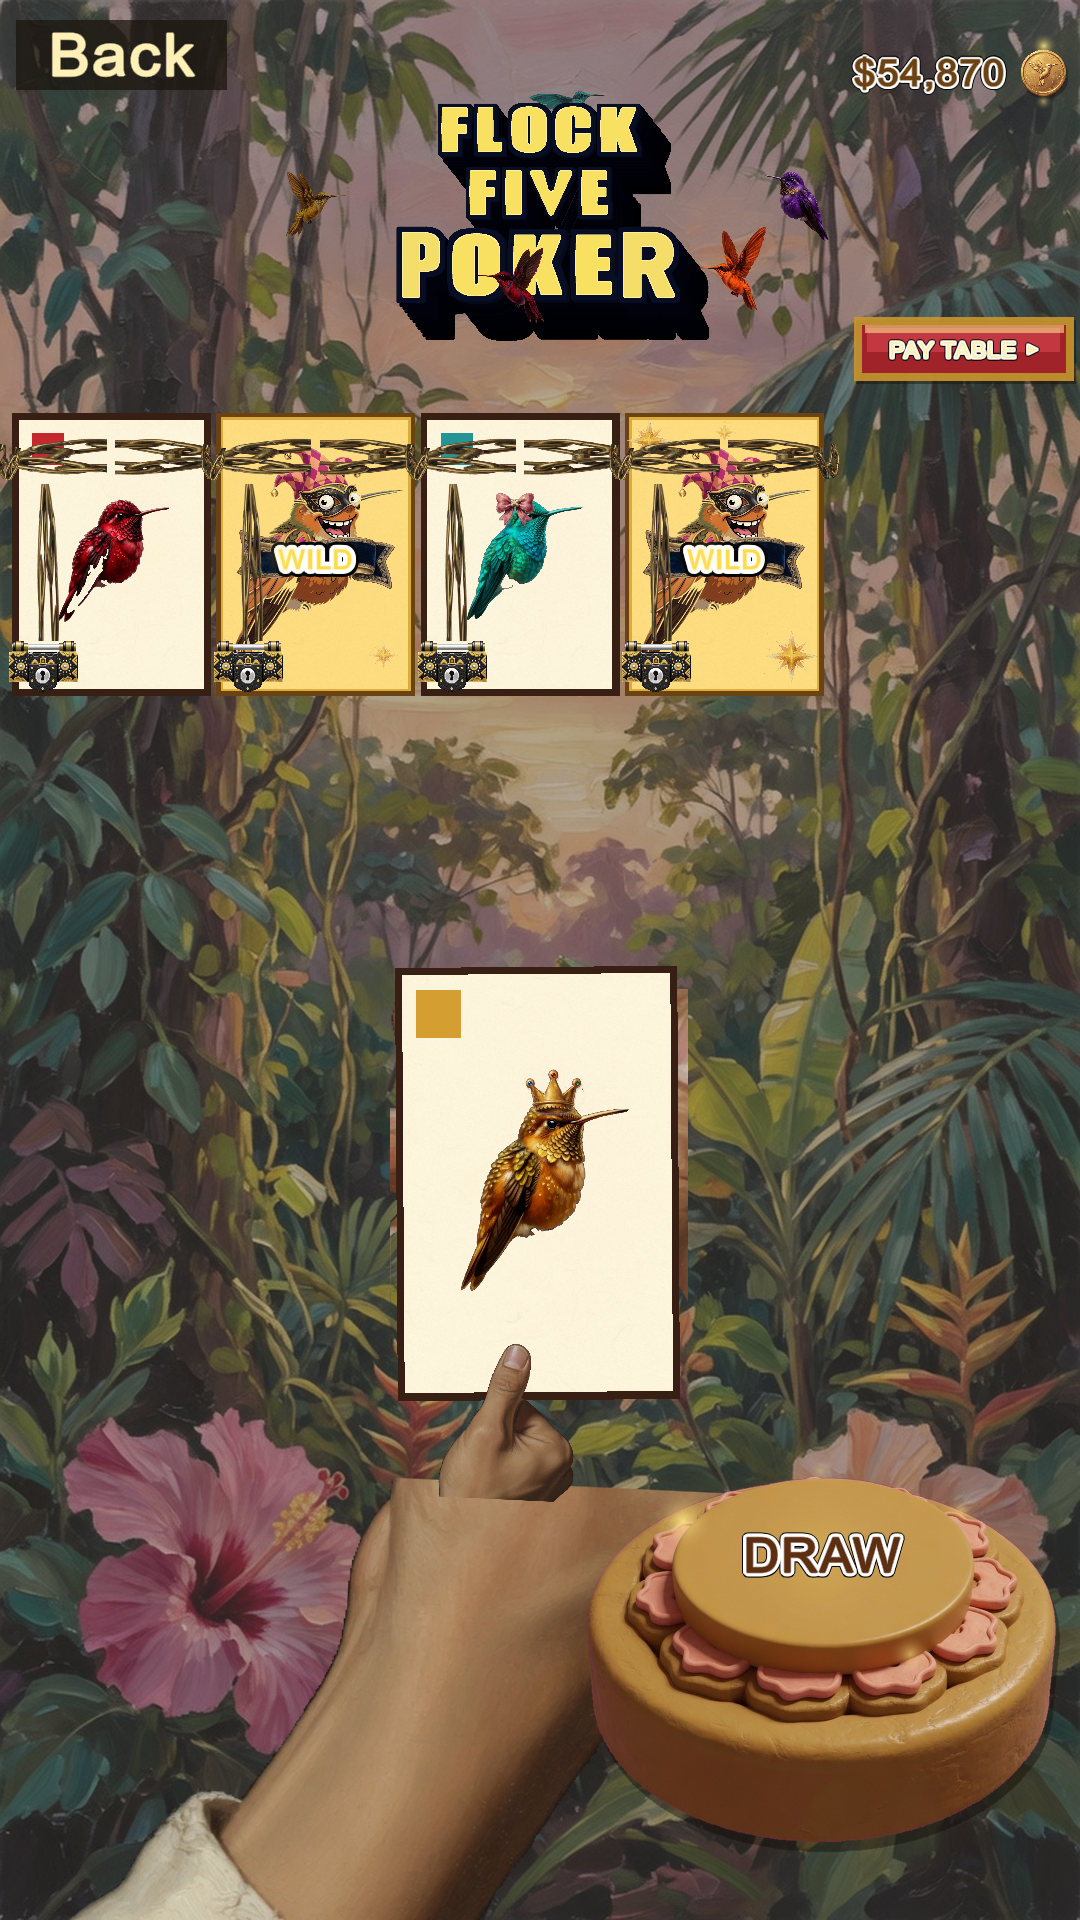
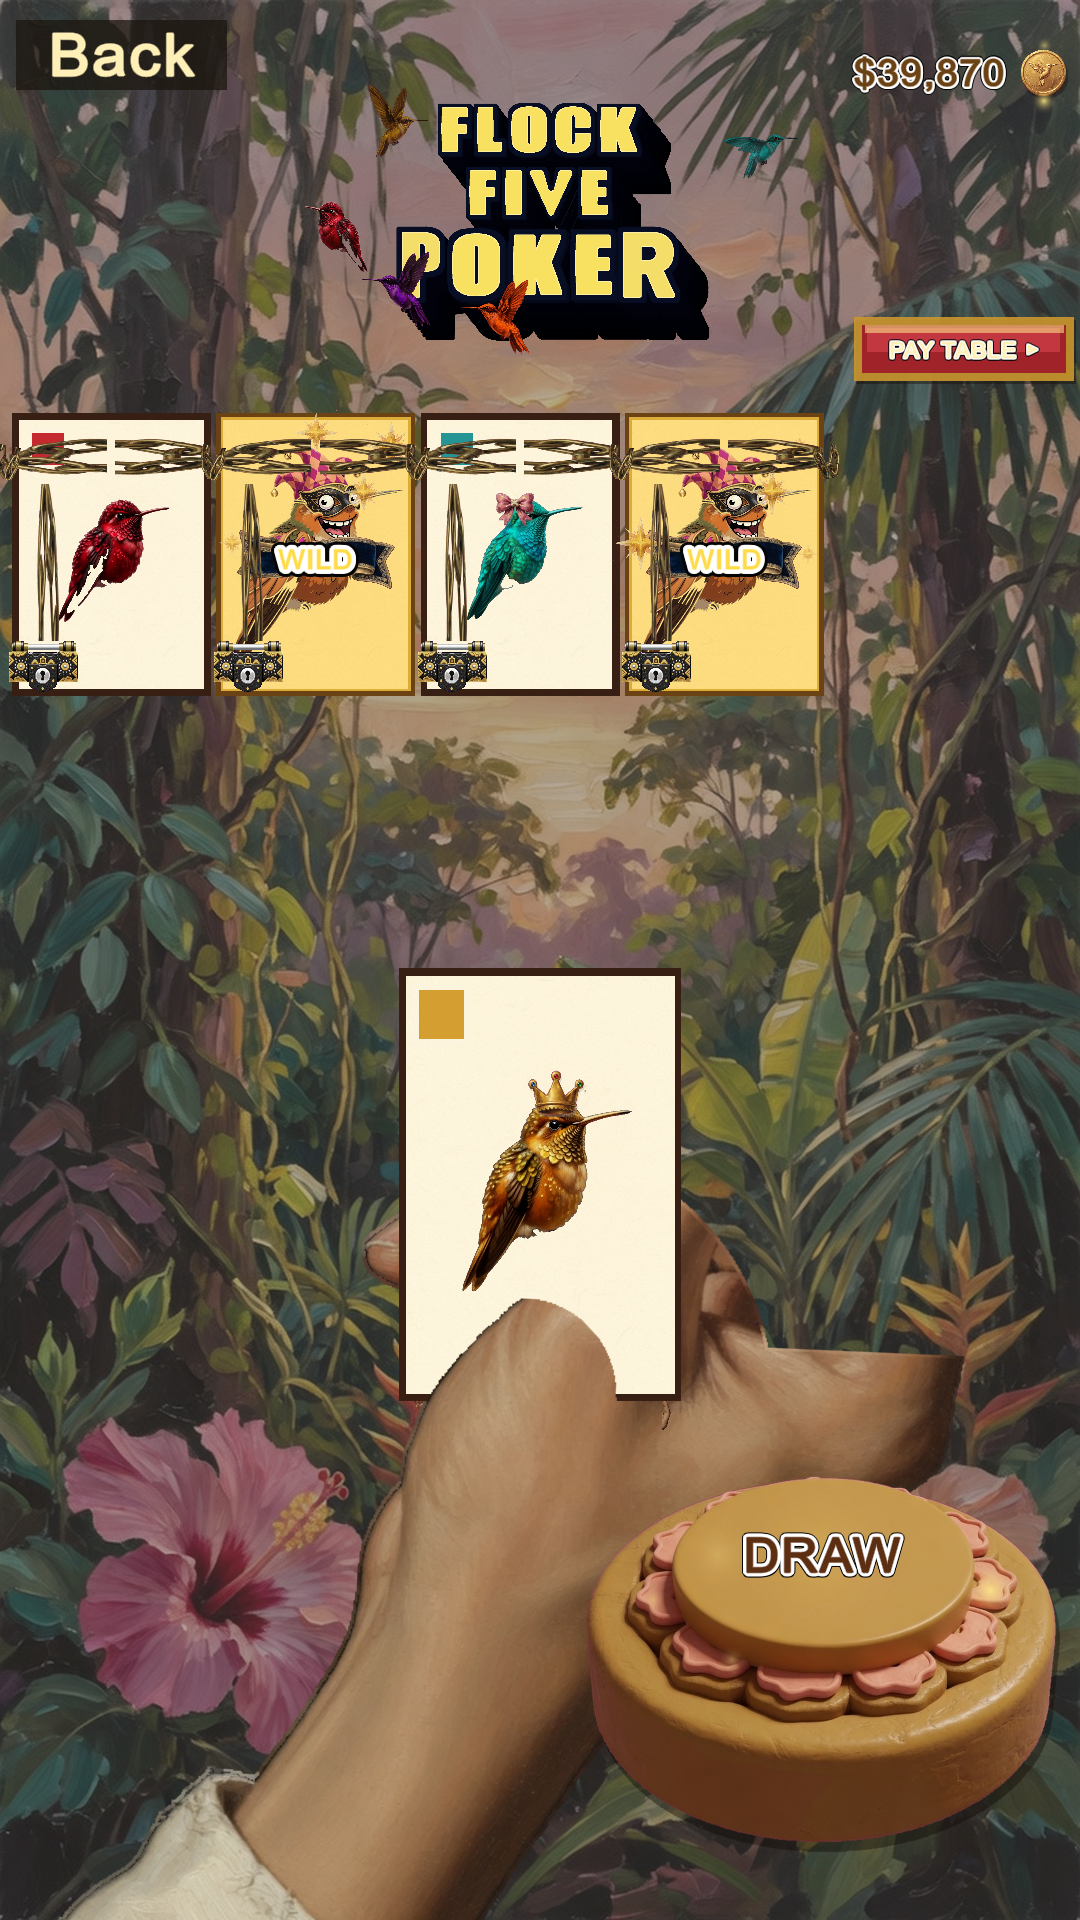
Poker: pass 12 — fill constructed grip under the cards
Palm is a solid mass (no card-shaped cutout). Behind digits
(pinky/ring/middle/index) re-anchor as pads under the remaining
fan. Thumb draws at the same dest as the palm so the pad sits in
the grip, not as a floating sticker. Draw order unchanged:
palm → behind digits → cards → thumb.

Playrun DONE 3/3, mid=0.

diff --git a/Assets/_Project/Scripts/App/FlockFiveApp.cs b/Assets/_Project/Scripts/App/FlockFiveApp.cs
@@ -1011,7 +1011,7 @@ namespace FlockFive
         {
             System.IO.Directory.CreateDirectory(dir);
             SpriteCatalog.DropPokerArt();
-            Debug.Log("Flock Five: ShotPokerFaces start " + dir + " pass11-constructed");
+            Debug.Log("Flock Five: ShotPokerFaces start " + dir + " pass12-fill-grip");
             _home = HomeFace.Poker;
             _splash = true;
             _pokerPayOpen = false;
@@ -4897,8 +4897,8 @@ namespace FlockFive
         const float PokerFanScale = 1.42f;
         const float PokerFanSpan = 0.46f;
         // Constructed hand: palm + digits share this UV; thumb is pinch-anchored.
-        const float PokerFanPinchU = 0.425f;
-        const float PokerFanPinchV = 0.422f;
+        const float PokerFanPinchU = 0.423f;
+        const float PokerFanPinchV = 0.431f;
         const float PokerFanHandAspect = 0.80f;
 
         static float PokerAliveBreathe() => Mathf.Sin(Time.unscaledTime * 1.18f);
@@ -5420,32 +5420,24 @@ namespace FlockFive
             int gripN = Mathf.Max(1, live);
             var grip = PokerFanSeatAt(Mathf.Min(gripN - 1, gripN / 2), gripN, row, bump);
             float fanH = row.height * PokerFanScale;
-            float h = fanH * 2.05f;
+            float h = fanH * 1.88f;
             float w = h * PokerFanHandAspect;
             float alive = u;
             float breathe = PokerAliveBreathe();
             float tick = PokerAliveTick();
-            float pinchX = grip.center.x - grip.width * 0.10f + _pokerKick.x + 0.85f * breathe * alive;
+            float pinchX = grip.center.x - grip.width * 0.08f + _pokerKick.x + 0.85f * breathe * alive;
             float pinchY = grip.yMax - grip.height * 0.02f + _pokerKick.y
                 + (0.90f * breathe + 0.18f * tick) * alive;
             float x = pinchX - w * PokerFanPinchU;
             float y = pinchY - h * PokerFanPinchV + (1f - u) * h * 0.35f;
-            if (x > -28f)
+            if (x > -12f)
             {
-                w = (pinchX + 28f) / Mathf.Max(0.12f, PokerFanPinchU);
+                w = (pinchX + 12f) / Mathf.Max(0.12f, PokerFanPinchU);
                 h = w / PokerFanHandAspect;
                 x = pinchX - w * PokerFanPinchU;
                 y = pinchY - h * PokerFanPinchV + (1f - u) * h * 0.35f;
             }
-            float needH = (Screen.height + 36f - pinchY) / Mathf.Max(0.12f, 1f - PokerFanPinchV);
-            if (h < needH)
-            {
-                h = needH;
-                w = h * PokerFanHandAspect;
-                x = pinchX - w * PokerFanPinchU;
-                y = pinchY - h * PokerFanPinchV + (1f - u) * h * 0.35f;
-            }
-            float ang = 3.2f + 0.55f * breathe * alive;
+            float ang = 2.4f + 0.45f * breathe * alive;
             float squash = 1f + 0.006f * breathe * alive;
             var prev = GUI.matrix;
             GUIUtility.RotateAroundPivot(ang, new Vector2(pinchX, pinchY));
@@ -5453,25 +5445,28 @@ namespace FlockFive
             GUI.color = u >= 0.98f ? Color.white : new Color(1f, 1f, 1f, u);
             if (!front)
             {
+                // Solid palm — cards sit on flesh, no cutout.
                 DrawSprite(new Rect(x, y, w, h), SpriteCatalog.HandPalm, true);
-                GUI.matrix = prev;
+                // Behind digits as pads under the remaining fan, overlapping the palm.
                 var cover = PokerFanCover(gripN, row, bump);
-                GUI.BeginGroup(cover);
-                var local = new Rect(x - cover.x, y - cover.y, w, h);
-                DrawSprite(local, SpriteCatalog.HandPinky, true);
-                DrawSprite(local, SpriteCatalog.HandRing, true);
-                DrawSprite(local, SpriteCatalog.HandMiddle, true);
-                GUI.EndGroup();
-                GUI.matrix = prev;
-                GUIUtility.RotateAroundPivot(ang, new Vector2(pinchX, pinchY));
-                GUIUtility.ScaleAroundPivot(new Vector2(squash, 2f - squash), new Vector2(pinchX, pinchY));
+                float padH = Mathf.Max(34f, cover.height * 0.18f);
+                float padW = Mathf.Max(28f, cover.width / 4.4f);
+                Sprite[] behind = {
+                    SpriteCatalog.HandPinky, SpriteCatalog.HandRing,
+                    SpriteCatalog.HandMiddle, SpriteCatalog.HandIndex
+                };
+                for (int d = 0; d < 4; d++)
+                {
+                    float t = (d + 0.5f) / 4f;
+                    float dx = cover.x + cover.width * t - padW * 0.5f;
+                    var pad = new Rect(dx, pinchY - padH * 0.12f, padW, padH);
+                    DrawSprite(pad, behind[d], true);
+                }
             }
             else
             {
-                float th = fanH * 0.85f;
-                float tw = th * 0.78f;
-                var thumb = new Rect(pinchX - tw * 0.50f, pinchY - th * 0.28f, tw, th);
-                DrawSprite(thumb, SpriteCatalog.HandThumb, true);
+                // Same dest as palm so the pad sits in the grip, not a floating cutout.
+                DrawSprite(new Rect(x, y, w, h), SpriteCatalog.HandThumb, true);
             }
             GUI.matrix = prev;
             GUI.color = Color.white;
